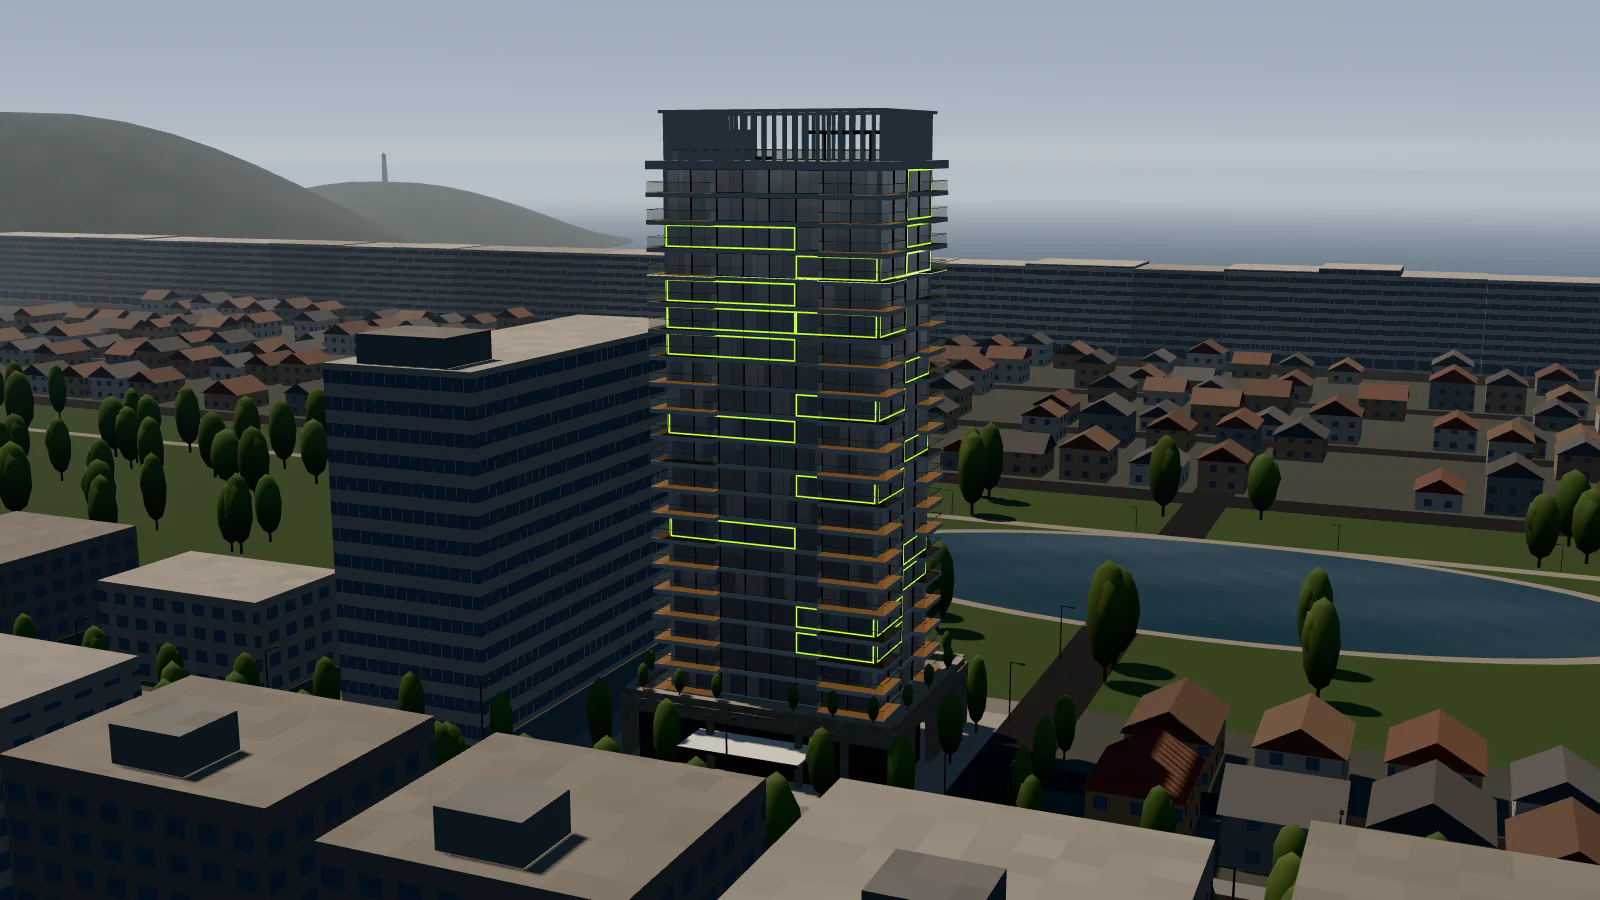
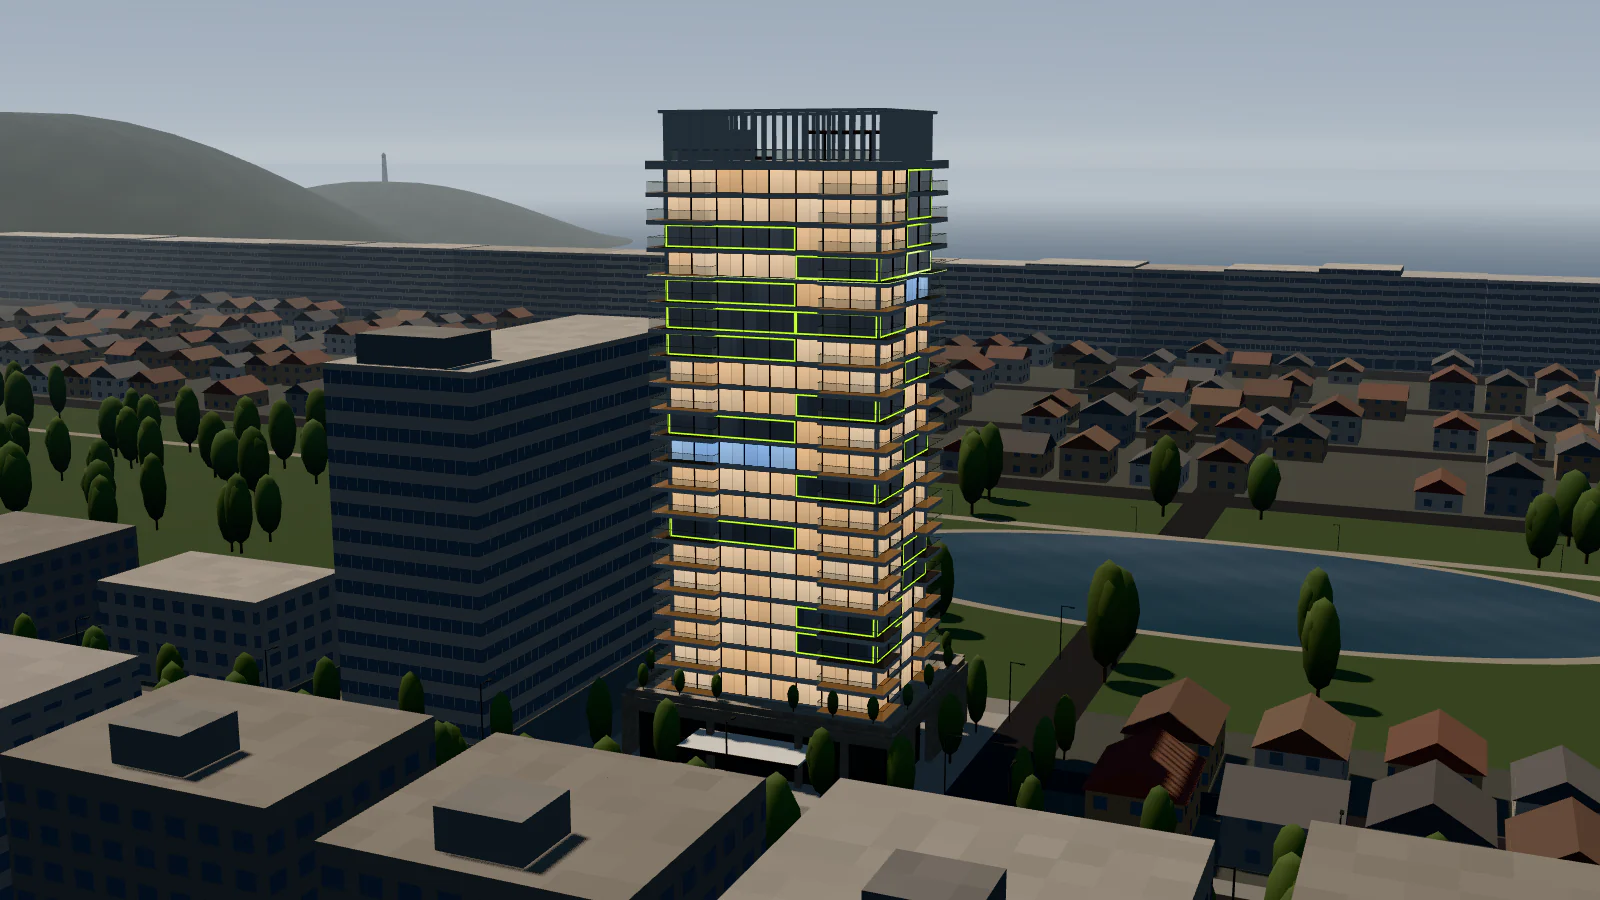
fix(torrelio): luzes de status visíveis de dia e no fim de tarde
Pedido do titular: "de dia as luzes apagam, aí fica difícil entender;
põe as luzes de dia e tarde também".

De dia e no fim de tarde, a lâmpada sumia contra o céu refletido no
vidro e não dava para ler o que estava vendido ou reservado. Agora a
vidraça acesa ganha a cor da luz (âmbar na vendida, azul na reservada),
mais clara no alto, como a luz do teto; o tom some à medida que a noite
chega, quando a própria lâmpada já diz. As disponíveis seguem escuras,
com o contorno verde.

Pôsteres de dia e imagem social gerados de novo; textos alternativos e a
dica do "Contornar disponíveis" atualizados.

Claude-Session: https://claude.ai/code/session_01NymVkhUjrAqESjyDC2bifq

Changed region(s): [[0.4062, 0.3111, 0.5938, 0.8089], [0.4062, 0.1867, 0.5625, 0.28], [0.4062, 0.28, 0.5, 0.3111]]

diff --git a/src/components/torrelio/3d/materiais.ts b/src/components/torrelio/3d/materiais.ts
@@ -394,6 +394,14 @@ export function materialDoVidro(comuns: Comuns): { material: ShaderMaterial; uni
 
         vec3 cor = transmitido * 0.8 * (1.0 - fresnel) + reflexo * fresnel + brilhoDoSol;
 
+        // De dia e no fim de tarde, a lâmpada some contra o céu refletido no vidro. Para o status
+        // continuar legível a qualquer hora (pedido do titular), a vidraça acesa ganha a cor da luz:
+        // âmbar na vendida, azul na reservada. À noite, a própria lâmpada já diz.
+        float acesa = min(abs(vLuz), 1.0) * uLuzesDaObra;
+        // Mais clara no alto da vidraça, como a luz do teto: lê como luz, e não como vidro colorido.
+        vec3 tom = lampada * (0.88 + 0.16 * h2) * (0.82 + 0.3 * vUv.y);
+        cor = mix(cor, tom, acesa * (1.0 - uNoite) * 0.82);
+
         // Caixilhos desenhados: montantes entre painéis e trilhos em cima e embaixo, em bronze.
         float caixilho = 0.0;
         for (float i = 1.0; i < 3.0; i += 1.0) {

diff --git a/src/content/produtos.ts b/src/content/produtos.ts
@@ -1210,7 +1210,7 @@ export const torrelio: Demonstracao = {
     'Para incorporadoras e hotéis: o empreendimento em 3D, no navegador, com cada unidade ligada à tabela, a vista de cada andar e um painel de controle. A demonstração usa um prédio fictício e fica aberta para testar.',
   imagem: {
     src: '/produtos/torrelio/poster-dia.webp',
-    alt: 'Maquete 3D do Residencial Vértice, prédio fictício, de dia: o contorno verde marca as unidades disponíveis.',
+    alt: 'Maquete 3D do Residencial Vértice, prédio fictício, de dia: vidraças âmbar são unidades vendidas, azuis são reservadas, e o contorno verde marca as disponíveis.',
   },
   paraQuem: 'Incorporadoras e hotéis',
   rodaEm: 'Navegador, no site e no stand',

diff --git a/src/components/torrelio/3d/estado-inicial.ts b/src/components/torrelio/3d/estado-inicial.ts
@@ -5,8 +5,9 @@ import type { EstadoVisualTorre } from './contrato';
 
 /**
  * O estado do pôster e do primeiro quadro quando a interface não manda o dela: a tabela de
- * lançamento (fictícia), a 1803 selecionada, dia de verão às 10h. De dia a luz das janelas quase
- * não aparece, e a interface liga o contorno das disponíveis: o pôster sai igual.
+ * lançamento (fictícia), a 1803 selecionada, dia de verão às 10h. De dia a vidraça acesa ganha a
+ * cor da luz (âmbar na vendida, azul na reservada) e a interface liga o contorno das disponíveis:
+ * o pôster sai igual.
  */
 export function estadoInicialDaTorre(movimento = true): EstadoVisualTorre {
   const luzes = new Uint8Array(UNIDADES.length);

diff --git a/src/app/produtos/torrelio/page.tsx b/src/app/produtos/torrelio/page.tsx
@@ -16,7 +16,7 @@ export const metadata: Metadata = metadadosDaRota({
     'Demonstração do que o estúdio constrói sob medida para incorporadoras e hotéis: um prédio fictício em 3D, no navegador, com cada unidade ligada à tabela, a vista de cada andar e um painel de controle aberto para teste.',
   rota: ROTAS.produtoTorrelio,
   imagem: OG.torrelio,
-  imagemAlt: 'Maquete 3D do Residencial Vértice, prédio fictício, de dia: o contorno verde marca as unidades disponíveis.',
+  imagemAlt: 'Maquete 3D do Residencial Vértice, prédio fictício, de dia: vidraças âmbar são unidades vendidas, azuis são reservadas, e o contorno verde marca as disponíveis.',
 });
 
 const linkSutil =

diff --git a/src/components/torrelio/PalcoTorre.tsx b/src/components/torrelio/PalcoTorre.tsx
@@ -249,7 +249,7 @@ export function PalcoTorre({
           height={900}
           fetchPriority="high"
           decoding="async"
-          alt="Maquete do Residencial Vértice, prédio fictício, de dia: o contorno verde marca as unidades disponíveis."
+          alt="Maquete do Residencial Vértice, prédio fictício, de dia: vidraças âmbar são unidades vendidas, azuis são reservadas, e o contorno verde marca as disponíveis."
         />
       </picture>
       <div ref={host} className={styles.host} aria-hidden="true" />

diff --git a/src/components/torrelio/BarraDoPalco.tsx b/src/components/torrelio/BarraDoPalco.tsx
@@ -170,7 +170,7 @@ export function BarraDoPalco(props: Props) {
         className={styles.segmentoSolto}
         aria-pressed={contornar || deDia}
         disabled={deDia}
-        title={deDia ? 'De dia a luz das janelas não aparece: o contorno fica ligado.' : undefined}
+        title={deDia ? 'De dia o contorno das disponíveis fica sempre ligado.' : undefined}
         onClick={() => props.aoContornar(!contornar)}
       >
         {modo === 'hotel' ? 'Contornar livres' : 'Contornar disponíveis'}

diff --git a/src/components/torrelio/interface.ts b/src/components/torrelio/interface.ts
@@ -186,7 +186,7 @@ export function fachadaDaVista(alvo: Unidade | Quarto, pedida?: Fachada): Fachad
   return [...alvo.fachadas].sort((a, b) => vaos(b) - vaos(a))[0]!;
 }
 
-/** De dia a luz das janelas não aparece; o contorno das disponíveis liga sozinho. */
+/** De dia o contorno das disponíveis liga sozinho: elas são as vidraças escuras, entre as acesas. */
 export function ehDeDia(hora: number, estacao: Estacao): boolean {
   return posicaoDoSol(hora, estacao).elevacao > 4;
 }

diff --git a/src/components/torrelio/DemonstracaoTorrelio.test.tsx b/src/components/torrelio/DemonstracaoTorrelio.test.tsx
@@ -155,7 +155,7 @@ describe('a demonstração do Torrelio', () => {
     montar();
     await abrir3d();
     expect(cena.ultimoEstado!.hora).toBe(10);
-    // De dia, o contorno das disponíveis fica ligado (a luz das janelas quase não aparece).
+    // De dia, o contorno das disponíveis fica ligado.
     expect(cena.ultimoEstado!.contornar).toBe(true);
   });
 

diff --git a/docs/torrelio/IMPLEMENTACAO.md b/docs/torrelio/IMPLEMENTACAO.md
@@ -111,8 +111,10 @@ achou três quebras de fluxo, agora corrigidas:
 Pedidos do titular: tirar as barras de rolagem da versão web e fazer tudo funcionar melhor, menos
 texto enrolativo e mais demonstração, e a maquete abrindo de dia ("noite só quando trocar").
 
-- **Dia por padrão.** A interface e o pôster abrem às 10h do verão, com o contorno das disponíveis
-  (de dia a luz das janelas quase não aparece). Os pôsteres viraram `poster-dia*.webp`, gerados pela
+- **Dia por padrão.** A interface e o pôster abrem às 10h do verão, com o contorno das disponíveis.
+  De dia e no fim de tarde a lâmpada sumia contra o céu refletido no vidro e o status ficava
+  ilegível; agora a vidraça acesa ganha a cor da luz (âmbar na vendida, azul na reservada), em
+  `materialDoVidro`, e some à medida que a noite chega, quando a própria lâmpada já diz. Os pôsteres viraram `poster-dia*.webp`, gerados pela
   cena (`tools/torrelio-poster.mjs`), e a imagem social sai do pôster de dia. A noite fica no botão,
   no atalho "Ver à noite" e no hotel ("A ocupação de cada noite").
 - **Sem barra de rolagem nos painéis.** Sobre a maquete, o espelho e o cartão rolam por dentro sem
